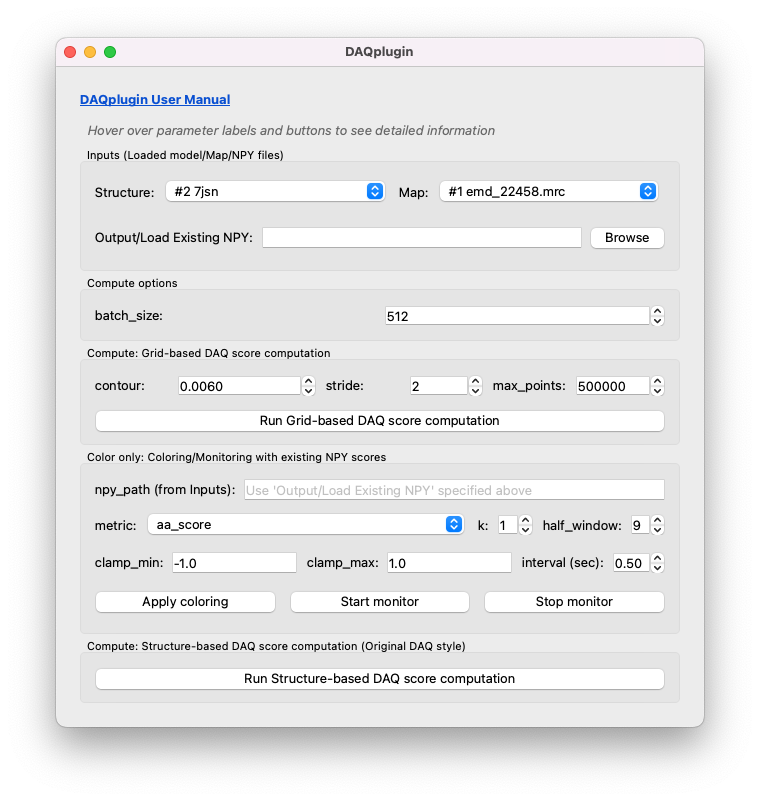
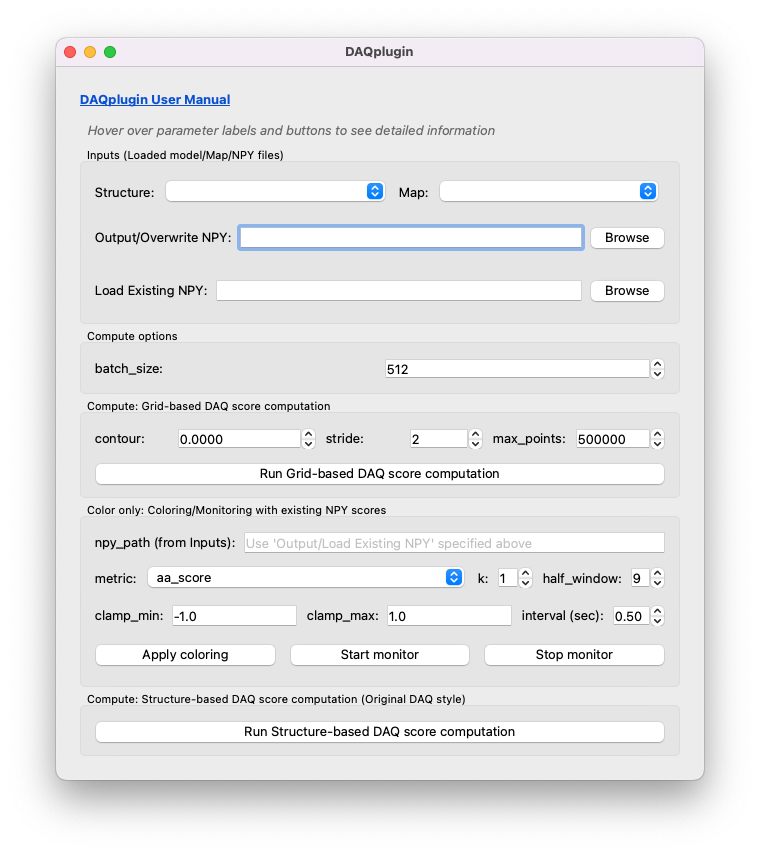
Update GUI

Changed region(s): [[0.0908, 0.0312, 0.8776, 0.8739], [0.0908, 0.9051, 0.9079, 0.9363], [0.4539, 0.0312, 0.5447, 0.0936]]

diff --git a/daqcolor/src/tool.py b/daqcolor/src/tool.py
@@ -91,6 +91,7 @@ class DAQTool(ToolInstance):
         path, _ = QFileDialog.getSaveFileName(self.tool_window.ui_area, title, "")
         if path:
             line_edit.setText(path)
+    
 
     def _refresh_models(self):
         """Populate structure and volume combos from session models."""
@@ -194,7 +195,7 @@ class DAQTool(ToolInstance):
         msg = QMessageBox(self.tool_window.ui_area)
         msg.setIcon(QMessageBox.Warning)
         msg.setWindowTitle(title)
-        msg.setText("The specified NPY file already exists.\nWhen you execute the command (compute_grid/compute_grid), do you want to overwrite it?")
+        msg.setText("The specified NPY file already exists.\n Do you want to overwrite it?")
         msg.setInformativeText(path)
         msg.setStandardButtons(QMessageBox.Yes | QMessageBox.No)
         msg.setDefaultButton(QMessageBox.No)
@@ -301,9 +302,10 @@ class DAQTool(ToolInstance):
 
         lay_sel.addLayout(row)
 
+        #Save NPY
         row = QHBoxLayout()
-        npy_label = QLabel("Output/Load Existing NPY:", root)
-        npy_label.setToolTip("Path to save computed scores or load existing scores from NPY file")
+        npy_label = QLabel("Output/Overwrite NPY:", root)
+        npy_label.setToolTip("Path to save computed scores in NPY format")
         row.addWidget(npy_label)
         self.output_edit = QLineEdit(root)
         btn_out = QPushButton("Browse", root)
@@ -311,6 +313,19 @@ class DAQTool(ToolInstance):
         btn_out.clicked.connect(lambda: self._browse_save_file(self.output_edit, "Save NPY"))
         row.addWidget(self.output_edit, 1)
         row.addWidget(btn_out)
+        lay_sel.addLayout(row)
+
+        #Load NPY
+        row = QHBoxLayout()
+        npy_label = QLabel("Load Existing NPY:", root)
+        npy_label.setToolTip("Path to load existing scores from NPY file")
+        row.addWidget(npy_label)
+        self.load_edit = QLineEdit(root)
+        btn_load = QPushButton("Browse", root)
+        btn_load.setToolTip("Browse for existing NPY file")
+        btn_load.clicked.connect(lambda: self._browse_open_file(self.load_edit, "Load NPY"))
+        row.addWidget(self.load_edit, 1)
+        row.addWidget(btn_load)
         lay_sel.addLayout(row)
 
         main.addWidget(box_sel)
@@ -399,7 +414,7 @@ class DAQTool(ToolInstance):
         row.addWidget(self.npy_use_edit, 1)
         lay_col.addLayout(row)
 
-        self.output_edit.textChanged.connect(self.npy_use_edit.setText)
+        self.load_edit.textChanged.connect(self.npy_use_edit.setText)
 
         # metric, k, half_window options
         row = QHBoxLayout()
@@ -531,6 +546,7 @@ class DAQTool(ToolInstance):
 
         self.session.logger.info(f"Running: {cmd}")
         run(self.session, cmd)
+        self.load_edit.setText(outp)
 
     def _run_compute_pdb(self):
         if not self._require_map_and_npy("compute_pdb"):
@@ -569,6 +585,7 @@ class DAQTool(ToolInstance):
 
         self.session.logger.info(f"Running: {cmd}")
         run(self.session, cmd)
+        self.load_edit.setText(outp)
 
     def _run_color_apply(self):
         st_tok = self._structure_token_or_none()
@@ -579,8 +596,9 @@ class DAQTool(ToolInstance):
         if not self._require_map_and_npy("daqcolor apply"):
             return
         
-        npy = self.output_edit.text().strip()
-        
+        #npy = self.output_edit.text().strip()
+        npy = self.load_edit.text().strip()
+
         if not npy:
             self.session.logger.error("Specify npy_path.")
             return
@@ -615,7 +633,9 @@ class DAQTool(ToolInstance):
         # Requirement #1: Map & NPY are mandatory (use NPY from Inputs)
         if not self._require_map_and_npy("daqcolor monitor"):
             return
-        npy = self.output_edit.text().strip()
+        #npy = self.output_edit.text().strip()
+        npy = self.load_edit.text().strip()
+
 
         interval = float(self.color_monitor_interval.value())
 

diff --git a/README.md b/README.md
@@ -58,9 +58,8 @@ DAQplugin/
 - Map: Select a loaded cryo-EM density map.
 `Example: #1 emd_22458.mrc`
 
-- Output / Load Existing NPY: Specify a path to
-Save computed DAQ scores as an .npy file, or
-Load an existing .npy file for coloring and monitoring only.
+- Output/Overwrite NPT : Specify a path to save computed DAQ scores as an .npy file
+- Load Existing NPY : Load an existing .npy file for coloring and monitoring only.
 
 ### 2. Compute Options
 - batch_size: 